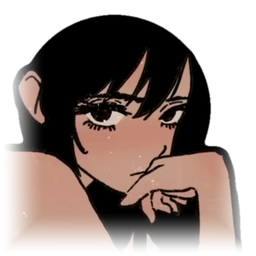
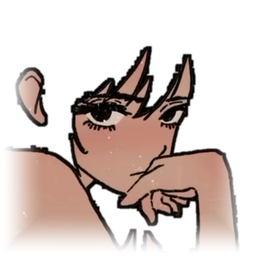
Ícone: cabelo preto transparente (0.0.10)
Opaco = pele + um aro de ~5 px em volta dela (os traços pretos), com os
furos internos preenchidos (pupilas). As manchas pretas grandes, como o
cabelo, ficam transparentes, igual ao plano de fundo.

Changed region(s): [[0.0312, 0.0312, 0.9688, 0.9688], [0.3438, 0.7188, 0.7812, 0.9688]]

diff --git a/CHANGELOG.md b/CHANGELOG.md
@@ -1,5 +1,9 @@
 # Changelog
 
+## 0.0.10
+
+- Ícone: o cabelo preto também ficou transparente, como no plano de fundo. Só a pele, os olhos e os traços continuam opacos.
+
 ## 0.0.9
 
 - Ícone: os braços somem suavemente nas bordas, sem nenhum corte reto (PNG sem fundo).
